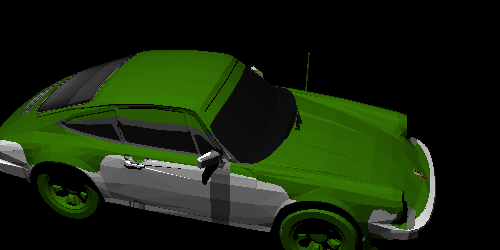
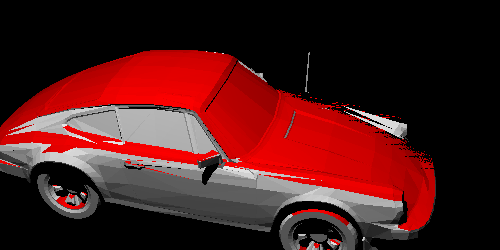
Texturen auf allen Seiten, aber random runtime error

diff --git a/src/Scene.cpp b/src/Scene.cpp
@@ -148,8 +148,8 @@ void Scene::loadFile(std::istream& file, int depth){
 void Scene::calcPixels(size_t start, size_t step, Vector3D right, Vector3D down, uint8_t* buffer, Vector3D VecToOrigin, tp starttp){
 	float sceneWidthForText = box.p2.at(0) - box.p1.at(0);
 	float sceneHeightForText = box.p2.at(2) - box.p1.at(2);
-	float wPixelsPerWorldUint = (float)this->texture.getWidth() / sceneWidthForText;
-	float hPixelsPerWorldUint = (float)this->texture.getHeight() / sceneHeightForText;
+	float wPixelsPerWorldUint = (float)this->texture[0].getWidth() / sceneWidthForText;
+	float hPixelsPerWorldUint = (float)this->texture[0].getHeight() / sceneHeightForText;
 
 	for (size_t curH = start; curH < camera.height_pixels; curH += step)
 	{
@@ -183,15 +183,15 @@ void Scene::calcPixels(size_t start, size_t step, Vector3D right, Vector3D down,
 			{
 				Vector3D normale = closest.face->normal;
 				Color faceCol;
-				//if(normale.getY() > fabs(normale.getZ()) && normale.getY() > fabs(normale.getX())){
+				if(normale.getY() > fabs(normale.getZ()) && normale.getY() > fabs(normale.getX())){
 					//std::cout << normale << std::endl;
 					//Farbwert der Fläche am HP berechen
 					size_t colXpos = wPixelsPerWorldUint * (closest.position.getX() + sceneWidthForText / 2);
 					size_t colZpos = hPixelsPerWorldUint * (sceneHeightForText/2 - closest.position.getZ());
-					faceCol = texture.get(colXpos, colZpos);
-				//}else{
-					//faceCol = Color(255,255,255);
-				//}
+					faceCol = texture[0].get(colXpos, colZpos);
+				}else{
+					faceCol = Color(255,255,255);
+				}
 
 				for(Light l : this->lights){
 					Vector3D lightSource = l.getLightSource();
@@ -349,8 +349,7 @@ void Scene::drawPicture()
 	// 2d array von colors pro pixel zu 1D array mit rgb values 
 }*/
 
-Scene::Scene(std::istream& file, int depth, char* textureFile)
-	: texture(textureFile)
+Scene::Scene(std::istream& file, int depth)
 {
 	this->loadFile(file, depth);
 }
@@ -368,5 +367,11 @@ void IBinaryDisect::incrCounters(size_t size){
 	IBinaryDisect::sumFaces+=size;
 	if(size > IBinaryDisect::mostFaces){
 		IBinaryDisect::mostFaces = size;
+	}
+}
+
+void Scene::loadGraphics(std::array<std::string, 6> paths){
+	for(uint8_t pos = 0; pos < 6; pos++){
+		this->texture[pos] = Texture(paths[pos]);
 	}
 }

diff --git a/include/Scene.hpp b/include/Scene.hpp
@@ -1,4 +1,5 @@
 #pragma once
+#include <array>
 #include <chrono>
 #include <istream>
 #include <vector>
@@ -18,21 +19,24 @@ using tp = std::chrono::time_point<std::chrono::system_clock, std::chrono::durat
 
 class Scene
 {
+private:
+    bool graphics = false;
+    int progress;
+    std::mutex proglock;
+
 public: 
-    Scene(std::istream& file, int depth, char*);
+    Scene(std::istream& file, int depth);
     std::vector<Object3D> Object3Ds;
     std::vector<Light> lights;
     Camera camera;
     IBinaryDisect* disect;
     BoundingBox box;
 
-    Texture texture;
-
-    int progress;
-    std::mutex proglock;
+    std::array<Texture, 6> texture = {};
 
     void loadFile(std::istream&,int);
     void drawPicture();
     void testoptimized(uint, tp);
     void calcPixels(size_t, size_t, Vector3D, Vector3D, uint8_t*, Vector3D, tp);
+    void loadGraphics(std::array<std::string,6>);
 };

diff --git a/src/main.cpp b/src/main.cpp
@@ -8,6 +8,7 @@
 #include <ostream>
 #include <sstream>
 #include <stdexcept>
+#include <string>
 #include <vector>
 #include "../include/Scene.hpp"
 
@@ -22,7 +23,15 @@ int main(int argc, char **argv)
         return -1;
     }
 
-    Scene test(file, 15, std::string("textures/porsche_ohne_cheaten.png").data());
+    Scene test(file, 15);
+    test.loadGraphics({
+        std::string("textures/red.png"),
+        std::string("textures/red.png"),
+        std::string("textures/red.png"),
+        std::string("textures/red.png"),
+        std::string("textures/red.png"),
+        std::string("textures/red.png"),
+    });
 
     int type;
     bool safe;

diff --git a/src/Texture.cpp b/src/Texture.cpp
@@ -3,10 +3,12 @@
 #define STB_IMAGE_IMPLEMENTATION
 #include "../include/stb_image.h"
 
-Texture::Texture(char* filename)
+Texture::Texture(){};
+
+Texture::Texture(std::string filename)
 {
     int width, height, channels;
-    unsigned char* data = stbi_load(filename, &width, &height, &channels, 0);
+    unsigned char* data = stbi_load(filename.data(), &width, &height, &channels, 0);
     if (data) {
         std::cout << "Loaded texture: " << width << "x" << height << ", channels: " << channels << std::endl;
         // Use image data here (data is a pointer to the pixel data)

diff --git a/include/Texture.hpp b/include/Texture.hpp
@@ -10,7 +10,8 @@ class Texture
     size_t width, height;
     uint8_t channels;
 public:
-    Texture(char* filename);
+    Texture();
+    Texture(std::string filename);
     ~Texture();
     size_t getWidth(){
         return this->width;
